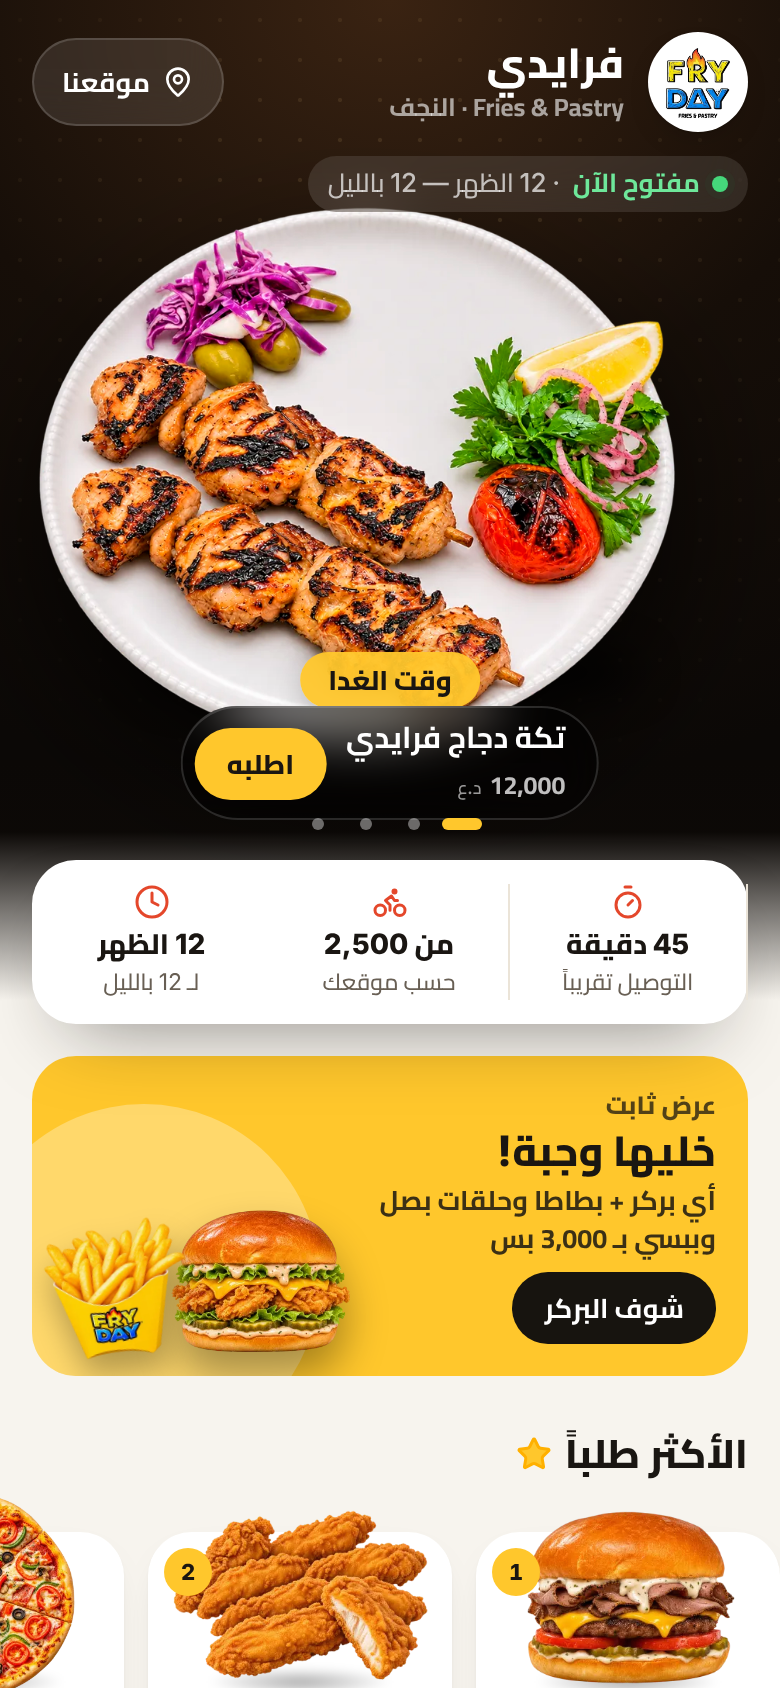
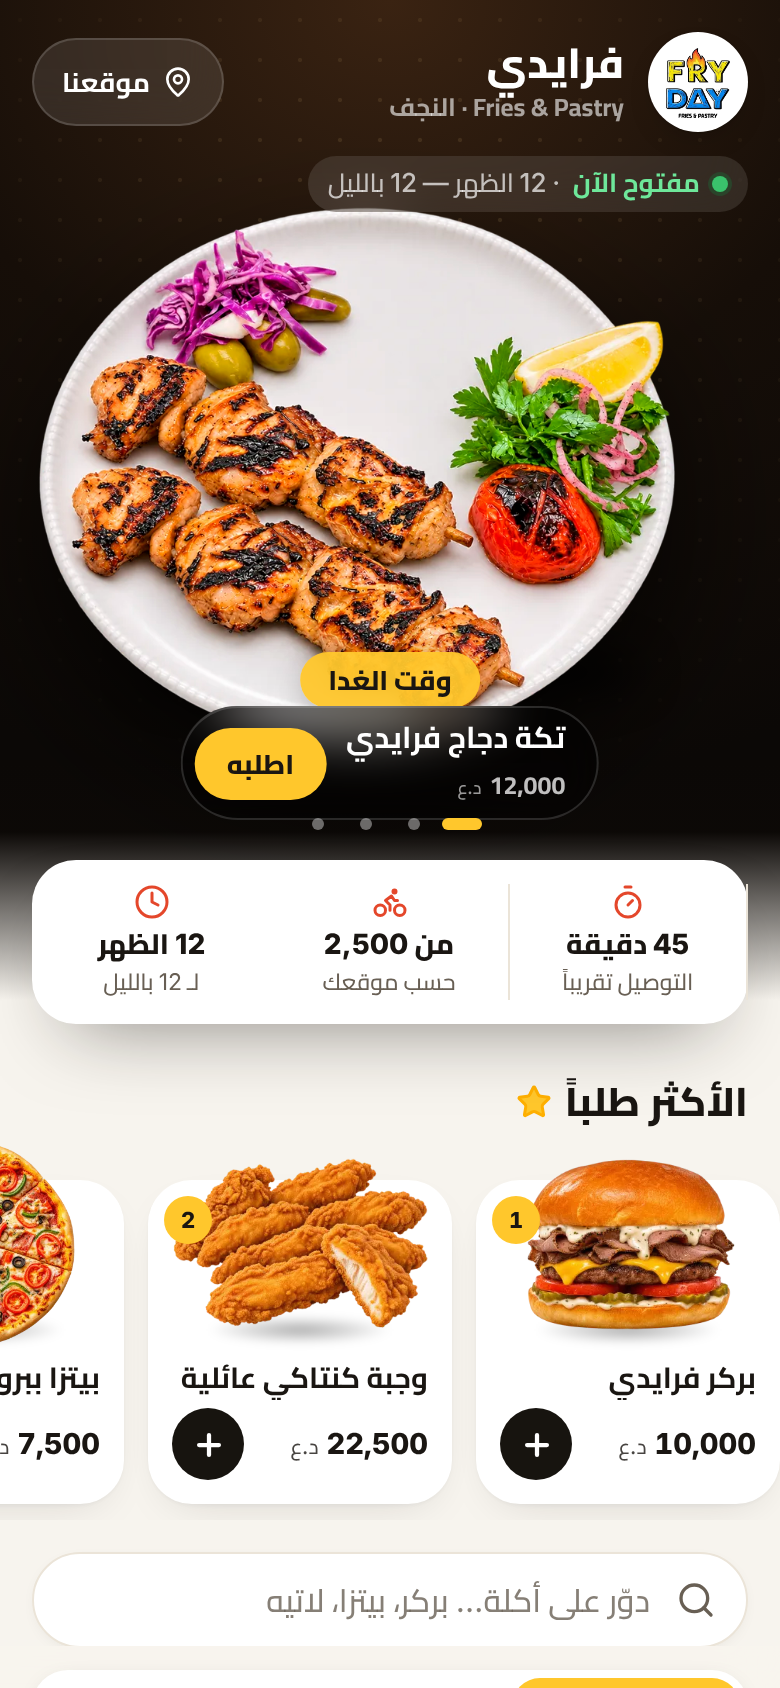
شيل بانر خليها وجبة الثابت (نافذة تحوّله لوجبة تكفي)
Claude-Session: https://claude.ai/code/session_01PqrfEhAJdwDcEq4tWxgRbc

Changed region(s): [[0.0, 0.6161, 0.9846, 1.0], [0.0, 0.8934, 0.0923, 1.0]]

diff --git a/src/themes/a/index.tsx b/src/themes/a/index.tsx
@@ -21,7 +21,6 @@ import { SizePicker, OptionGroupView, NoteField } from '../../components/OptionG
 import { useCartSummary } from '../../hooks/useCartSummary';
 import { useItemConfig } from '../../hooks/useItemConfig';
 import { hourLabel } from '../../lib/hours';
-import { photo } from '../../lib/format';
 import { go } from '../../lib/router';
 import { useQuickAdd, useBump, AddBar, MotionTap } from '../shared';
 import { TAB_ICONS, TextRow, Footer } from '../common';
@@ -54,21 +53,6 @@ function InfoCard() {
   );
 }
 
-function Promo({ onGo }: { onGo: () => void }) {
-  return (
-    <button onClick={onGo} className="relative mx-4 mt-4 flex w-[calc(100%-2rem)] items-center overflow-hidden rounded-[22px] bg-primary p-4 pe-[44%] text-start text-on-primary">
-      <div className="absolute -left-8 -bottom-10 size-44 rounded-full bg-white/30" />
-      <div className="relative">
-        <p className="text-[12.5px] font-extrabold tracking-wide opacity-75">عرض ثابت</p>
-        <p className="text-[21px] leading-tight font-extrabold">خليها وجبة!</p>
-        <p className="mt-0.5 text-[13.5px] leading-snug font-semibold opacity-85">أي بركر + بطاطا وحلقات بصل وببسي بـ <bdi className="num">3,000</bdi> بس</p>
-        <span className="mt-2 inline-flex h-9 items-center rounded-full bg-cta px-4 text-[13.5px] font-bold text-on-cta">شوف البركر</span>
-      </div>
-      <img src={photo('burger-zinger.webp', 'sm')} alt="" className="absolute bottom-3 left-[17%] w-[30%] drop-shadow-[0_12px_10px_rgba(0,0,0,0.35)]" />
-      <img src={photo('fries-classic.webp', 'sm')} alt="" className="absolute bottom-2 left-2 w-[20%] -rotate-12 drop-shadow-[0_10px_8px_rgba(0,0,0,0.3)]" />
-    </button>
-  );
-}
 
 /* ───────── صف صنف (أسلوب توترز) ───────── */
 function RowCard({ item }: { item: Item }) {
@@ -171,7 +155,6 @@ function HomeA() {
       <DarkHero onSection={openSection} />
       <InfoCard />
       <ClosedNotice className="mx-4 mt-3" />
-      <Promo onGo={() => { b.setTab('food'); setTimeout(() => b.scrollToSection(b.data.tabs[0].sections[0].id), 30); }} />
       <SeasonStrip className="mx-4 mt-3" />
       <PastOrderCard />
       <Featured />

diff --git a/CLAUDE.md b/CLAUDE.md
@@ -144,6 +144,7 @@ ADMIN_PW=... node scripts/screenshots-admin.mjs       # لقطات اللوحة
   - ⏸ **بانتظار تجربة أحمد من الموبايل و"كمل" للمرحلة 2.**
 - [x] **المرحلة 2 — المبيعات والإبهار**: البانر الذكي (وقت/جو/موسم + صور وفيديو من اللوحة + تلقائي)، حوّل لوجبة، تكمّل طلبك، الأكثر طلباً (نجمة + تلقائي)، الطلب السابق، قطة فرايدي، وضع المواسم، لمسات حركة (الرأس يصغر مع السكرول، انتقال التبويبات، الأسعار تتحرك). 46 اختبار. لقطات: `screenshots/phase2/`.
   - صلّحت بالمرحلة: الرجوع من رابط صنف مباشر كان يطلّع الزبون برا الموقع.
+  - بطلب أحمد: انشال بانر "خليها وجبة!" الأصفر الثابت تحت الرأس — نافذة "تحوّله لوجبة؟" تكفي.
   - Open-Meteo محجوب ببيئة Claude — الجو انجرب بالاختبارات والمعاينة (`?preview=hot`)، والحقيقي يشتغل على Cloudflare.
   - ⏸ **بانتظار تجربة أحمد و"كمل" للمرحلة 3.**
 - [ ] المرحلة 3 — الإبهار والبيانات.
